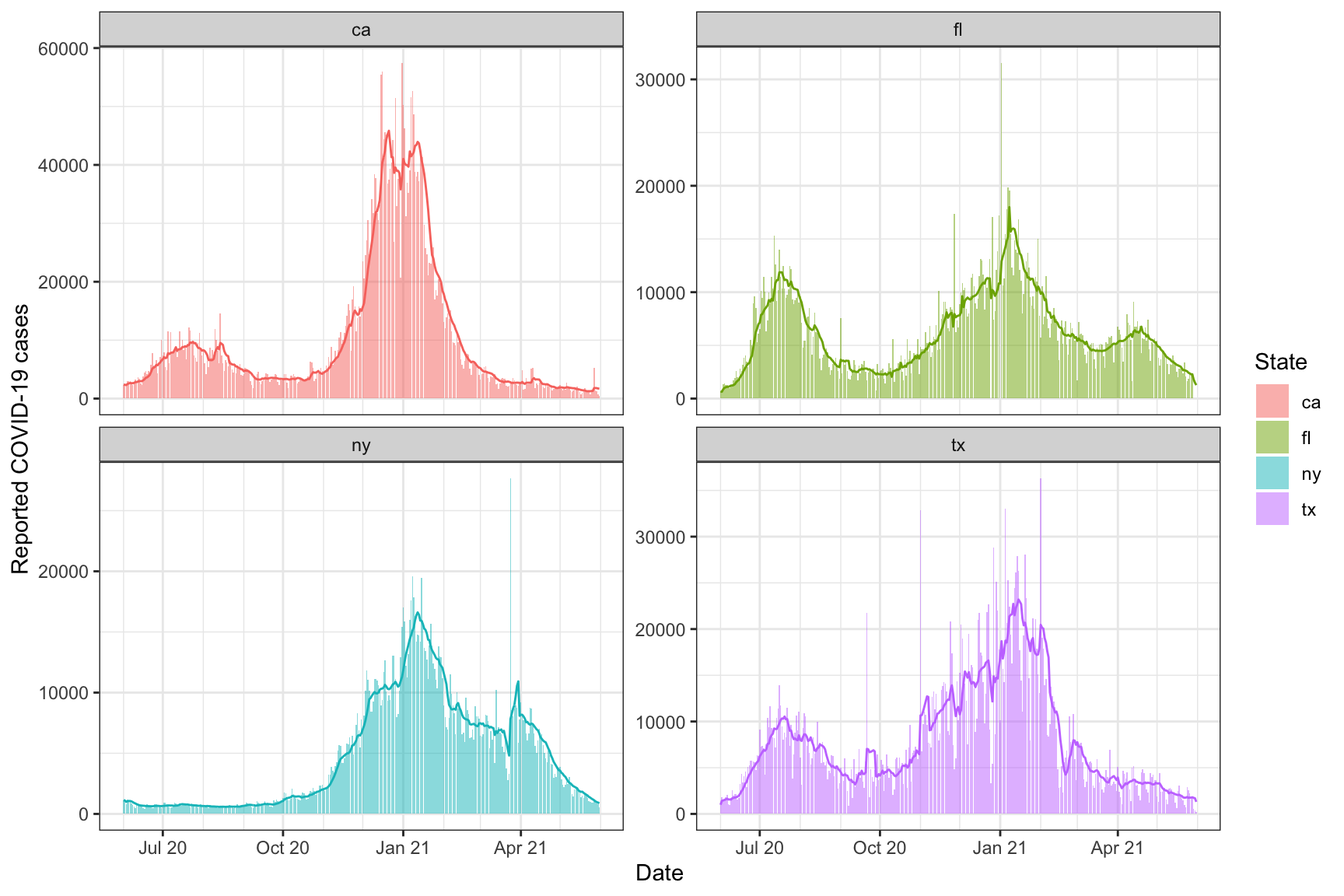
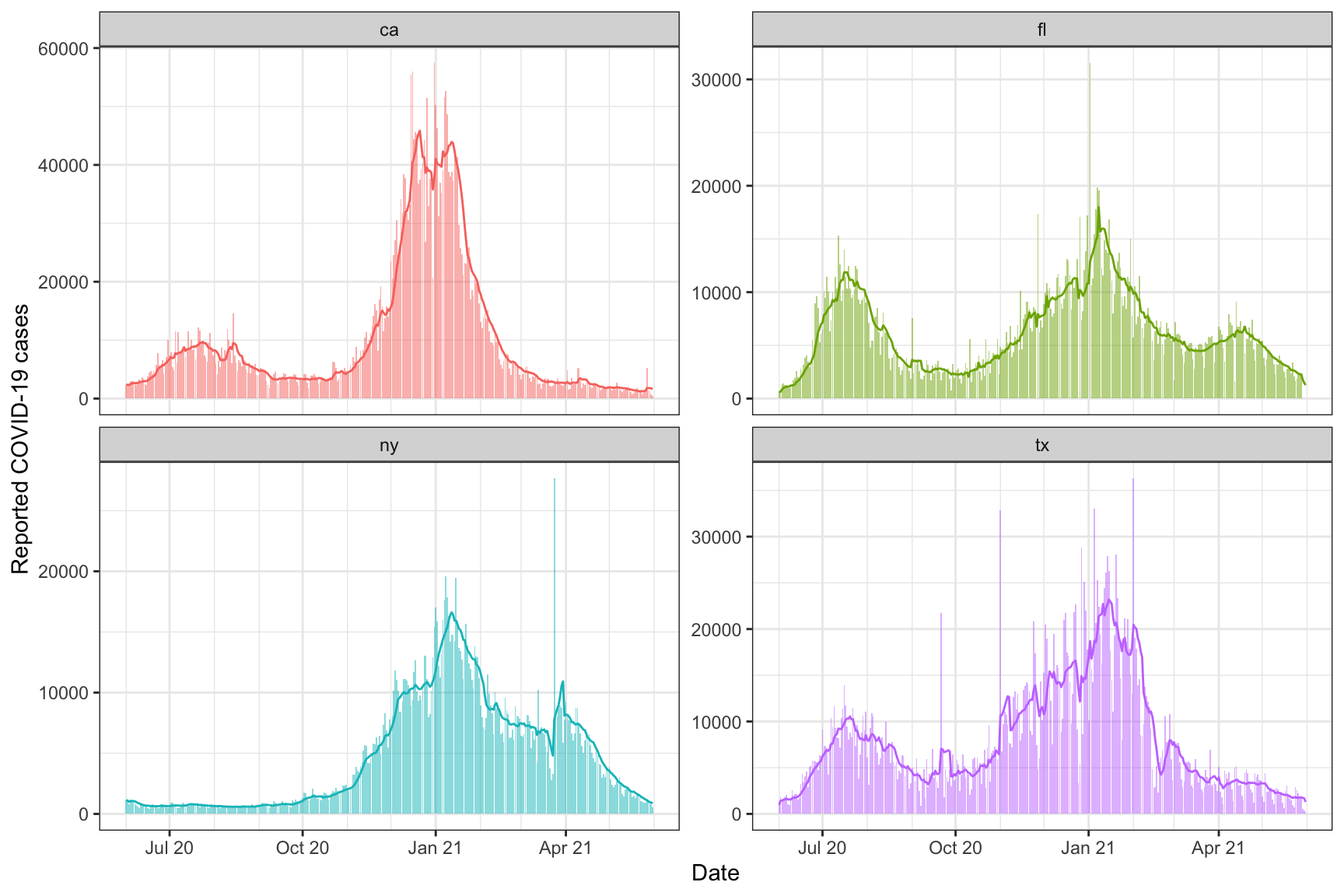
Fix AR model
- Refactor the code so that it outputs data frame in wide format
- Widen bands to seek 95% coverage
- Increase training set size to 100
- Update some of the text and plots

diff --git a/docs/articles/slide.html b/docs/articles/slide.html
@@ -12,7 +12,7 @@
 <link rel="stylesheet" href="https://cdnjs.cloudflare.com/ajax/libs/font-awesome/5.12.1/css/v4-shims.min.css" integrity="sha256-wZjR52fzng1pJHwx4aV2AO3yyTOXrcDW7jBpJtTwVxw=" crossorigin="anonymous">
 <!-- clipboard.js --><script src="https://cdnjs.cloudflare.com/ajax/libs/clipboard.js/2.0.6/clipboard.min.js" integrity="sha256-inc5kl9MA1hkeYUt+EC3BhlIgyp/2jDIyBLS6k3UxPI=" crossorigin="anonymous"></script><!-- headroom.js --><script src="https://cdnjs.cloudflare.com/ajax/libs/headroom/0.11.0/headroom.min.js" integrity="sha256-AsUX4SJE1+yuDu5+mAVzJbuYNPHj/WroHuZ8Ir/CkE0=" crossorigin="anonymous"></script><script src="https://cdnjs.cloudflare.com/ajax/libs/headroom/0.11.0/jQuery.headroom.min.js" integrity="sha256-ZX/yNShbjqsohH1k95liqY9Gd8uOiE1S4vZc+9KQ1K4=" crossorigin="anonymous"></script><!-- pkgdown --><link href="../pkgdown.css" rel="stylesheet">
 <script src="../pkgdown.js"></script><meta property="og:title" content="1. Slide a computation over signal values">
-<meta property="og:description" content="Slide a computation signal values over time.">
+<meta property="og:description" content="Slide a computation over signal values over time.">
 <!-- mathjax --><script src="https://cdnjs.cloudflare.com/ajax/libs/mathjax/2.7.5/MathJax.js" integrity="sha256-nvJJv9wWKEm88qvoQl9ekL2J+k/RWIsaSScxxlsrv8k=" crossorigin="anonymous"></script><script src="https://cdnjs.cloudflare.com/ajax/libs/mathjax/2.7.5/config/TeX-AMS-MML_HTMLorMML.js" integrity="sha256-84DKXVJXs0/F8OTMzX4UR909+jtl4G7SPypPavF+GfA=" crossorigin="anonymous"></script><!--[if lt IE 9]>
 <script src="https://oss.maxcdn.com/html5shiv/3.7.3/html5shiv.min.js"></script>
 <script src="https://oss.maxcdn.com/respond/1.4.2/respond.min.js"></script>
@@ -156,11 +156,11 @@
 <span class="fu"><a href="https://ggplot2.tidyverse.org/reference/theme_get.html">theme_set</a></span>(<span class="fu"><a href="https://ggplot2.tidyverse.org/reference/ggtheme.html">theme_bw</a></span>())
 
 <span class="fu"><a href="https://ggplot2.tidyverse.org/reference/ggplot.html">ggplot</a></span>(<span class="no">x</span>, <span class="fu"><a href="https://ggplot2.tidyverse.org/reference/aes.html">aes</a></span>(<span class="kw">x</span> <span class="kw">=</span> <span class="no">time_value</span>)) +
-  <span class="fu"><a href="https://ggplot2.tidyverse.org/reference/geom_bar.html">geom_col</a></span>(<span class="fu"><a href="https://ggplot2.tidyverse.org/reference/aes.html">aes</a></span>(<span class="kw">y</span> <span class="kw">=</span> <span class="no">value</span>, <span class="kw">fill</span> <span class="kw">=</span> <span class="no">geo_value</span>), <span class="kw">alpha</span> <span class="kw">=</span> <span class="fl">0.5</span>) +
+  <span class="fu"><a href="https://ggplot2.tidyverse.org/reference/geom_bar.html">geom_col</a></span>(<span class="fu"><a href="https://ggplot2.tidyverse.org/reference/aes.html">aes</a></span>(<span class="kw">y</span> <span class="kw">=</span> <span class="no">value</span>, <span class="kw">fill</span> <span class="kw">=</span> <span class="no">geo_value</span>), <span class="kw">alpha</span> <span class="kw">=</span> <span class="fl">0.5</span>, <span class="kw">show.legend</span> <span class="kw">=</span> <span class="fl">FALSE</span>) +
   <span class="fu"><a href="https://ggplot2.tidyverse.org/reference/geom_path.html">geom_line</a></span>(<span class="fu"><a href="https://ggplot2.tidyverse.org/reference/aes.html">aes</a></span>(<span class="kw">y</span> <span class="kw">=</span> <span class="no">`7dav`</span>, <span class="kw">col</span> <span class="kw">=</span> <span class="no">geo_value</span>), <span class="kw">show.legend</span> <span class="kw">=</span> <span class="fl">FALSE</span>) +
   <span class="fu"><a href="https://ggplot2.tidyverse.org/reference/facet_wrap.html">facet_wrap</a></span>(~ <span class="no">geo_value</span>, <span class="kw">scales</span> <span class="kw">=</span> <span class="st">"free_y"</span>) +
   <span class="fu"><a href="https://ggplot2.tidyverse.org/reference/scale_date.html">scale_x_date</a></span>(<span class="kw">minor_breaks</span> <span class="kw">=</span> <span class="st">"month"</span>, <span class="kw">date_labels</span> <span class="kw">=</span> <span class="st">"%b %y"</span>) +
-  <span class="fu"><a href="https://ggplot2.tidyverse.org/reference/labs.html">labs</a></span>(<span class="kw">x</span> <span class="kw">=</span> <span class="st">"Date"</span>, <span class="kw">y</span> <span class="kw">=</span> <span class="st">"Reported COVID-19 cases"</span>, <span class="kw">fill</span> <span class="kw">=</span> <span class="st">"State"</span>)</pre></body></html></div>
+  <span class="fu"><a href="https://ggplot2.tidyverse.org/reference/labs.html">labs</a></span>(<span class="kw">x</span> <span class="kw">=</span> <span class="st">"Date"</span>, <span class="kw">y</span> <span class="kw">=</span> <span class="st">"Reported COVID-19 cases"</span>)</pre></body></html></div>
 <p><img src="slide_files/figure-html/unnamed-chunk-4-1.png" width="864"></p>
 </div>
 <div id="slide-with-a-function" class="section level2">
@@ -187,13 +187,13 @@
 <div id="building-and-running-a-local-forecaster" class="section level2">
 <h2 class="hasAnchor">
 <a href="#building-and-running-a-local-forecaster" class="anchor"></a>Building and running a local forecaster</h2>
-<p>As a more complicated example, we create a forecaster based on a local (in time) autoregression or AR model. AR models can be fit in numerous ways (using base R functions and various packages), but here we define it “by hand” both because it provides a more advanced example of sliding a function over an <code>epi_signal</code> object, and because it allows us to be a bit more flexible in defining a <em>probabilistic</em> forecaster: one that outputs not just a point prediction, but a notion of uncertainty around this. In particular, our forecaster will output a point prediction along with a 80% uncertainty band, represented by a predictive quantiles at the 10% and 90% levels (lower and upper endpoints of the uncertainty band).</p>
-<p>The function defined below, <code>local_ar()</code>, is our local AR forecaster. The <code>lags</code> argument indicates which lags to use in the model, and <code>ahead</code> indicates how far ahead in the future to make forecasts (both are encoded in terms of the units of the <code>time_value</code> column; so, days, in the working <code>epi_signal</code> being considered in this vignette). The implementation here uses <code><a href="https://dplyr.tidyverse.org/reference/lead-lag.html">dplyr::lag()</a></code>, <code><a href="https://dplyr.tidyverse.org/reference/lead-lag.html">dplyr::lead()</a></code>, and <code>purrr:map()</code> to fit the AR model with tidy code.</p>
-<div class="sourceCode" id="cb9"><html><body><pre class="r"><span class="no">local_ar</span> <span class="kw">&lt;-</span> <span class="kw">function</span>(<span class="no">v</span>, <span class="no">lags</span> <span class="kw">=</span> <span class="fu"><a href="https://rdrr.io/r/base/c.html">c</a></span>(<span class="fl">0</span>, <span class="fl">7</span>, <span class="fl">14</span>), <span class="no">ahead</span> <span class="kw">=</span> <span class="fl">7</span>, <span class="no">min_train_window</span> <span class="kw">=</span> <span class="fl">10</span>,
-                     <span class="no">quantile_levels</span> <span class="kw">=</span> <span class="fu"><a href="https://rdrr.io/r/base/c.html">c</a></span>(<span class="fl">0.1</span>, <span class="fl">0.9</span>), <span class="no">symmetrize</span> <span class="kw">=</span> <span class="fl">TRUE</span>) {
+<p>As a more complicated example, we create a forecaster based on a local (in time) autoregression or AR model. AR models can be fit in numerous ways (using base R functions and various packages), but here we define it “by hand” both because it provides a more advanced example of sliding a function over an <code>epi_signal</code> object, and because it allows us to be a bit more flexible in defining a <em>probabilistic</em> forecaster: one that outputs not just a point prediction, but a notion of uncertainty around this. In particular, our forecaster will output a point prediction along with an 90% uncertainty band, represented by a predictive quantiles at the 5% and 95% levels (lower and upper endpoints of the uncertainty band).</p>
+<p>The function defined below, <code>prob_ar()</code>, is our probabilistic AR forecaster. The <code>lags</code>argument indicates which lags to use in the model, and <code>ahead</code> indicates how far ahead in the future to make forecasts (both are encoded in terms of the units of the <code>time_value</code> column; so, days, in the working <code>epi_signal</code> being considered in this vignette).</p>
+<div class="sourceCode" id="cb9"><html><body><pre class="r"><span class="no">prob_ar</span> <span class="kw">&lt;-</span> <span class="kw">function</span>(<span class="no">v</span>, <span class="no">lags</span> <span class="kw">=</span> <span class="fu"><a href="https://rdrr.io/r/base/c.html">c</a></span>(<span class="fl">0</span>, <span class="fl">7</span>, <span class="fl">14</span>), <span class="no">ahead</span> <span class="kw">=</span> <span class="fl">7</span>, <span class="no">min_train_window</span> <span class="kw">=</span> <span class="fl">20</span>,
+                    <span class="no">lower_level</span> <span class="kw">=</span> <span class="fl">0.05</span>, <span class="no">upper_level</span> <span class="kw">=</span> <span class="fl">0.95</span>, <span class="no">symmetrize</span> <span class="kw">=</span> <span class="fl">TRUE</span>) {
   <span class="co"># Return NA if insufficient training data</span>
   <span class="kw">if</span> (<span class="fu"><a href="https://rdrr.io/r/base/length.html">length</a></span>(<span class="no">v</span>) <span class="kw">&lt;</span> <span class="no">min_train_window</span> + <span class="fu"><a href="https://rdrr.io/r/base/Extremes.html">max</a></span>(<span class="no">lags</span>) + <span class="no">ahead</span>) {
-    <span class="fu"><a href="https://rdrr.io/r/base/function.html">return</a></span>(<span class="fu"><a href="https://rdrr.io/r/base/data.frame.html">data.frame</a></span>(<span class="kw">value</span> <span class="kw">=</span> <span class="fl">NA</span>, <span class="kw">level</span> <span class="kw">=</span> <span class="fu"><a href="https://rdrr.io/r/base/c.html">c</a></span>(<span class="fl">NA</span>, <span class="no">quantile_levels</span>)))
+    <span class="fu"><a href="https://rdrr.io/r/base/function.html">return</a></span>(<span class="fu"><a href="https://rdrr.io/r/base/data.frame.html">data.frame</a></span>(<span class="kw">point</span> <span class="kw">=</span> <span class="fl">NA</span>, <span class="kw">lower</span> <span class="kw">=</span> <span class="fl">NA</span>, <span class="kw">upper</span> <span class="kw">=</span> <span class="fl">NA</span>))
   }
 
   <span class="co"># Perform other simple checks</span>
@@ -211,18 +211,17 @@
   <span class="co"># Compute a band and return</span>
   <span class="no">r</span> <span class="kw">&lt;-</span> <span class="fu"><a href="https://rdrr.io/r/stats/residuals.html">residuals</a></span>(<span class="no">fit</span>)
   <span class="no">s</span> <span class="kw">&lt;-</span> <span class="fu"><a href="https://rdrr.io/r/base/ifelse.html">ifelse</a></span>(<span class="no">symmetrize</span>, -<span class="fl">1</span>, <span class="fl">NA</span>) <span class="co"># Should the residuals be symmetrized?</span>
-  <span class="no">q</span> <span class="kw">&lt;-</span> <span class="fu"><a href="https://rdrr.io/r/base/c.html">c</a></span>(<span class="fl">0</span>, <span class="fu"><a href="https://rdrr.io/r/stats/quantile.html">quantile</a></span>(<span class="fu"><a href="https://rdrr.io/r/base/c.html">c</a></span>(<span class="no">r</span>, <span class="no">s</span> * <span class="no">r</span>), <span class="kw">probs</span> <span class="kw">=</span> <span class="no">quantile_levels</span>, <span class="kw">na.rm</span> <span class="kw">=</span> <span class="fl">TRUE</span>))
-  <span class="fu"><a href="https://rdrr.io/r/base/function.html">return</a></span>(<span class="fu"><a href="https://rdrr.io/r/base/data.frame.html">data.frame</a></span>(<span class="kw">value</span> <span class="kw">=</span> <span class="no">q</span> + <span class="no">point</span>, <span class="kw">level</span> <span class="kw">=</span> <span class="fu"><a href="https://rdrr.io/r/base/c.html">c</a></span>(<span class="fl">NA</span>, <span class="no">quantile_levels</span>)))
+  <span class="no">q</span> <span class="kw">&lt;-</span> <span class="fu"><a href="https://rdrr.io/r/stats/quantile.html">quantile</a></span>(<span class="fu"><a href="https://rdrr.io/r/base/c.html">c</a></span>(<span class="no">r</span>, <span class="no">s</span> * <span class="no">r</span>), <span class="kw">probs</span> <span class="kw">=</span> <span class="fu"><a href="https://rdrr.io/r/base/c.html">c</a></span>(<span class="no">lower_level</span>, <span class="no">upper_level</span>), <span class="kw">na.rm</span> <span class="kw">=</span> <span class="fl">TRUE</span>)
+  <span class="fu"><a href="https://rdrr.io/r/base/function.html">return</a></span>(<span class="fu"><a href="https://rdrr.io/r/base/data.frame.html">data.frame</a></span>(<span class="kw">point</span> <span class="kw">=</span> <span class="no">point</span>, <span class="kw">lower</span> <span class="kw">=</span> <span class="no">point</span> + <span class="no">q</span>[<span class="fl">1</span>], <span class="kw">upper</span> <span class="kw">=</span> <span class="no">point</span> + <span class="no">q</span>[<span class="fl">2</span>]))
 }</pre></body></html></div>
-<p>Now we go ahead and slide this local forecaster over the working <code>epi_signal</code> of COVID-19 cases. Note that we actually model the <code>7dav</code> column, to operate on the scale of smoothed COVID-19 cases. (This is clearly equivalent, up to a constant, to modeling weekly sums of COVID-19 cases.)</p>
-<div class="sourceCode" id="cb10"><html><body><pre class="r"><span class="no">forecasts</span> <span class="kw">&lt;-</span> <span class="no">x</span> <span class="kw">%&gt;%</span>
-  <span class="fu"><a href="../reference/slide_by_geo.html">slide_by_geo</a></span>(<span class="kw">slide_fun</span> <span class="kw">=</span> ~ <span class="fu">local_ar</span>(<span class="no">.x</span>$<span class="no">`7dav`</span>), <span class="kw">n</span> <span class="kw">=</span> <span class="fl">63</span>,
-               <span class="kw">col_type</span> <span class="kw">=</span> <span class="st">"list"</span>, <span class="kw">col_name</span> <span class="kw">=</span> <span class="st">"value"</span>) <span class="kw">%&gt;%</span>
-  <span class="fu"><a href="https://dplyr.tidyverse.org/reference/rename.html">rename</a></span>(<span class="kw">forecast_date</span> <span class="kw">=</span> <span class="no">time_value</span>) <span class="kw">%&gt;%</span>
-  <span class="fu"><a href="https://dplyr.tidyverse.org/reference/mutate.html">mutate</a></span>(<span class="kw">target_date</span> <span class="kw">=</span> <span class="no">forecast_date</span> + <span class="fl">7</span>) <span class="kw">%&gt;%</span>
-  <span class="fu"><a href="https://dplyr.tidyverse.org/reference/select.html">select</a></span>(-<span class="no">issue</span>, -<span class="no">`7dav`</span>)
+<p>Now we go ahead and slide this AR forecaster over the working <code>epi_signal</code> of COVID-19 cases. Note that we actually model the <code>7dav</code> column, to operate on the scale of smoothed COVID-19 cases. (This is clearly equivalent, up to a constant, to modeling weekly sums of COVID-19 cases.)</p>
+<div class="sourceCode" id="cb10"><html><body><pre class="r"><span class="no">z</span> <span class="kw">&lt;-</span> <span class="no">x</span> <span class="kw">%&gt;%</span>
+  <span class="fu"><a href="../reference/slide_by_geo.html">slide_by_geo</a></span>(<span class="kw">slide_fun</span> <span class="kw">=</span> ~ <span class="fu">prob_ar</span>(<span class="no">.x</span>$<span class="no">`7dav`</span>), <span class="kw">n</span> <span class="kw">=</span> <span class="fl">100</span>,
+               <span class="kw">col_type</span> <span class="kw">=</span> <span class="st">"list"</span>, <span class="kw">col_name</span> <span class="kw">=</span> <span class="st">"forecast"</span>) <span class="kw">%&gt;%</span>
+  <span class="fu"><a href="https://dplyr.tidyverse.org/reference/mutate.html">mutate</a></span>(<span class="kw">target_date</span> <span class="kw">=</span> <span class="no">time_value</span> + <span class="fl">7</span>) <span class="kw">%&gt;%</span>
+  <span class="fu"><a href="https://dplyr.tidyverse.org/reference/select.html">select</a></span>(-<span class="no">value</span>, -<span class="no">slide_value</span>, -<span class="no">issue</span>)
 
-<span class="fu"><a href="https://rdrr.io/r/utils/head.html">tail</a></span>(<span class="no">forecasts</span>, <span class="fl">3</span>)</pre></body></html></div>
+<span class="fu"><a href="https://rdrr.io/r/utils/head.html">tail</a></span>(<span class="no">z</span>, <span class="fl">3</span>)</pre></body></html></div>
 <pre><code>## An `epi_signal` data frame with 3 rows and 5 columns.
 ## 
 ## name      : covid19_cases
@@ -230,74 +229,63 @@
 ## time_type : day
 ## 
 ## # A tibble: 3 × 5
-##   value        geo_value forecast_date slide_value target_date
-##   &lt;list&gt;       &lt;chr&gt;     &lt;date&gt;              &lt;dbl&gt; &lt;date&gt;     
-## 1 &lt;df [3 × 2]&gt; tx        2021-05-29          1740. 2021-06-05 
-## 2 &lt;df [3 × 2]&gt; tx        2021-05-30          1692. 2021-06-06 
-## 3 &lt;df [3 × 2]&gt; tx        2021-05-31          1306. 2021-06-07</code></pre>
-<p>We cab see that the <code>value</code> column is a list column (as we specified in the call to <code>slide_to_geo()</code>, which is needed since <code>local_ar()</code> returns a data frame), and we can use <code><a href="https://tidyr.tidyverse.org/reference/nest.html">tidyr::unnest()</a></code> to unnest it.</p>
-<div class="sourceCode" id="cb12"><html><body><pre class="r"><span class="no">forecasts</span> <span class="kw">&lt;-</span> <span class="kw pkg">tidyr</span><span class="kw ns">::</span><span class="fu"><a href="https://tidyr.tidyverse.org/reference/nest.html">unnest</a></span>(<span class="no">forecasts</span>, <span class="no">value</span>)
-<span class="fu"><a href="https://rdrr.io/r/utils/head.html">tail</a></span>(<span class="no">forecasts</span>, <span class="fl">10</span>)</pre></body></html></div>
-<pre><code>## # A tibble: 10 × 6
-##    value level geo_value forecast_date slide_value target_date
-##    &lt;dbl&gt; &lt;dbl&gt; &lt;chr&gt;     &lt;date&gt;              &lt;dbl&gt; &lt;date&gt;     
-##  1 1981.   0.9 tx        2021-05-28          1802  2021-06-04 
-##  2 1721.  NA   tx        2021-05-29          1740. 2021-06-05 
-##  3 1447.   0.1 tx        2021-05-29          1740. 2021-06-05 
-##  4 1995.   0.9 tx        2021-05-29          1740. 2021-06-05 
-##  5 1694.  NA   tx        2021-05-30          1692. 2021-06-06 
-##  6 1415.   0.1 tx        2021-05-30          1692. 2021-06-06 
-##  7 1974.   0.9 tx        2021-05-30          1692. 2021-06-06 
-##  8 1181.  NA   tx        2021-05-31          1306. 2021-06-07 
-##  9  876.   0.1 tx        2021-05-31          1306. 2021-06-07 
-## 10 1487.   0.9 tx        2021-05-31          1306. 2021-06-07</code></pre>
-<p>The <code>level</code> column specifies the quantile level corresponding to the <code>value</code> column. Here <code>NA</code> means that the associated <code>value</code> entry is the point forecast and <code>0.1</code> and <code>0.9</code> mean that the associated <code>value</code> entries are the estimated quantiles at the 0.1 and 0.9 probability levels.</p>
-<p>To finish off, we plot the forecasts at various times (spaced out by a month) over the last year, at multiple horizons (7, 14, and 28 days ahead). To do so, we encapsulate the process of generating forecasts into a simple function, so that we can call it a few times.</p>
+##   geo_value time_value `7dav` forecast     target_date
+##   &lt;chr&gt;     &lt;date&gt;      &lt;dbl&gt; &lt;list&gt;       &lt;date&gt;     
+## 1 tx        2021-05-29  1740. &lt;df [1 × 3]&gt; 2021-06-05 
+## 2 tx        2021-05-30  1692. &lt;df [1 × 3]&gt; 2021-06-06 
+## 3 tx        2021-05-31  1306. &lt;df [1 × 3]&gt; 2021-06-07</code></pre>
+<p>We can see that the <code>forecast</code> column is a list column (as specified in the call to <code>slide_to_geo()</code>, which was needed since <code>prob_ar()</code> returns a data frame), and we can use <code><a href="https://tidyr.tidyverse.org/reference/nest.html">tidyr::unnest()</a></code> to unnest it.</p>
+<div class="sourceCode" id="cb12"><html><body><pre class="r"><span class="no">z</span> <span class="kw">&lt;-</span> <span class="kw pkg">tidyr</span><span class="kw ns">::</span><span class="fu"><a href="https://tidyr.tidyverse.org/reference/nest.html">unnest</a></span>(<span class="no">z</span>, <span class="no">forecast</span>)
+<span class="fu"><a href="https://rdrr.io/r/utils/head.html">tail</a></span>(<span class="no">z</span>, <span class="fl">10</span>)</pre></body></html></div>
+<pre><code>## # A tibble: 10 × 7
+##    geo_value time_value `7dav` point lower upper target_date
+##    &lt;chr&gt;     &lt;date&gt;      &lt;dbl&gt; &lt;dbl&gt; &lt;dbl&gt; &lt;dbl&gt; &lt;date&gt;     
+##  1 tx        2021-05-22  1756. 2078. 1448. 2709. 2021-05-29 
+##  2 tx        2021-05-23  1763. 2067. 1437. 2696. 2021-05-30 
+##  3 tx        2021-05-24  1824. 2069. 1434. 2703. 2021-05-31 
+##  4 tx        2021-05-25  1743  2056. 1473. 2638. 2021-06-01 
+##  5 tx        2021-05-26  1767. 2048. 1480. 2616. 2021-06-02 
+##  6 tx        2021-05-27  1761. 2020. 1449. 2591. 2021-06-03 
+##  7 tx        2021-05-28  1802  1980. 1389. 2571. 2021-06-04 
+##  8 tx        2021-05-29  1740. 1888. 1272. 2505. 2021-06-05 
+##  9 tx        2021-05-30  1692. 1819. 1171. 2466. 2021-06-06 
+## 10 tx        2021-05-31  1306. 1525.  878. 2172. 2021-06-07</code></pre>
+<p>Now we get three columns <code>point</code>, <code>lower</code>, and <code>upper</code> corresponding to the point forecast, and the lower and upper endpoints of the 95% prediction band, respectively.</p>
+<p>To finish off, we plot the forecasts at some times (spaced out by a few months) over the last year, at multiple horizons (7, 14, and 28 days ahead). To do so, we encapsulate the process of generating forecasts into a simple function, so that we can call it a few times.</p>
 <div class="sourceCode" id="cb14"><html><body><pre class="r"><span class="no">k_week_ahead</span> <span class="kw">&lt;-</span> <span class="kw">function</span>(<span class="no">x</span>, <span class="no">ahead</span> <span class="kw">=</span> <span class="fl">7</span>) {
-  <span class="co"># Ensure each forecast task has 42 effective days of training data</span>
-  <span class="no">arg_list</span> <span class="kw">=</span> <span class="fu"><a href="https://rdrr.io/r/base/list.html">as.list</a></span>(<span class="fu"><a href="https://rdrr.io/r/base/args.html">args</a></span>(<span class="no">local_ar</span>))
-  <span class="no">n</span> <span class="kw">=</span> <span class="fl">42</span> + <span class="fu"><a href="https://rdrr.io/r/base/Extremes.html">max</a></span>(<span class="fu"><a href="https://rdrr.io/r/base/eval.html">eval</a></span>(<span class="no">arg_list</span>$<span class="no">lags</span>)) + <span class="no">ahead</span>
-  <span class="fu"><a href="https://rdrr.io/r/base/function.html">return</a></span>(<span class="no">x</span> <span class="kw">%&gt;%</span>
-           <span class="fu"><a href="../reference/slide_by_geo.html">slide_by_geo</a></span>(<span class="kw">slide_fun</span> <span class="kw">=</span> ~ <span class="fu">local_ar</span>(<span class="no">.x</span>$<span class="no">`7dav`</span>, <span class="kw">ahead</span> <span class="kw">=</span> <span class="no">ahead</span>),
-                        <span class="kw">n</span> <span class="kw">=</span> <span class="no">n</span>, <span class="kw">col_type</span> <span class="kw">=</span> <span class="st">"list"</span>, <span class="kw">col_name</span> <span class="kw">=</span> <span class="st">"value"</span>) <span class="kw">%&gt;%</span>
-           <span class="kw pkg">dplyr</span><span class="kw ns">::</span><span class="fu"><a href="https://dplyr.tidyverse.org/reference/rename.html">rename</a></span>(<span class="kw">forecast_date</span> <span class="kw">=</span> <span class="no">time_value</span>) <span class="kw">%&gt;%</span>
-           <span class="fu"><a href="https://dplyr.tidyverse.org/reference/mutate.html">mutate</a></span>(<span class="kw">target_date</span> <span class="kw">=</span> <span class="no">forecast_date</span> + <span class="no">ahead</span>) <span class="kw">%&gt;%</span>
-           <span class="fu"><a href="https://dplyr.tidyverse.org/reference/select.html">select</a></span>(-<span class="no">issue</span>, -<span class="no">`7dav`</span>) <span class="kw">%&gt;%</span>
-           <span class="kw pkg">tidyr</span><span class="kw ns">::</span><span class="fu"><a href="https://tidyr.tidyverse.org/reference/nest.html">unnest</a></span>(<span class="no">value</span>))
+  <span class="no">x</span> <span class="kw">%&gt;%</span>
+    <span class="fu"><a href="../reference/slide_by_geo.html">slide_by_geo</a></span>(<span class="kw">slide_fun</span> <span class="kw">=</span> ~ <span class="fu">prob_ar</span>(<span class="no">.x</span>$<span class="no">`7dav`</span>, <span class="kw">ahead</span> <span class="kw">=</span> <span class="no">ahead</span>),
+                 <span class="kw">n</span> <span class="kw">=</span> <span class="fl">100</span>, <span class="kw">col_type</span> <span class="kw">=</span> <span class="st">"list"</span>, <span class="kw">col_name</span> <span class="kw">=</span> <span class="st">"forecast"</span>) <span class="kw">%&gt;%</span>
+    <span class="fu"><a href="https://dplyr.tidyverse.org/reference/mutate.html">mutate</a></span>(<span class="kw">target_date</span> <span class="kw">=</span> <span class="no">time_value</span> + <span class="no">ahead</span>) <span class="kw">%&gt;%</span>
+    <span class="fu"><a href="https://dplyr.tidyverse.org/reference/select.html">select</a></span>(-<span class="no">value</span>, -<span class="no">slide_value</span>, -<span class="no">issue</span>) <span class="kw">%&gt;%</span>
+    <span class="kw pkg">tidyr</span><span class="kw ns">::</span><span class="fu"><a href="https://tidyr.tidyverse.org/reference/nest.html">unnest</a></span>(<span class="no">forecast</span>)
 }
 
 <span class="co"># First generate the forecasts, and bind them together</span>
-<span class="no">forecasts</span> <span class="kw">&lt;-</span> <span class="fu"><a href="https://dplyr.tidyverse.org/reference/bind.html">bind_rows</a></span>(<span class="fu">k_week_ahead</span>(<span class="no">x</span>, <span class="kw">ahead</span> <span class="kw">=</span> <span class="fl">7</span>),
-                       <span class="fu">k_week_ahead</span>(<span class="no">x</span>, <span class="kw">ahead</span> <span class="kw">=</span> <span class="fl">14</span>),
-                       <span class="fu">k_week_ahead</span>(<span class="no">x</span>, <span class="kw">ahead</span> <span class="kw">=</span> <span class="fl">28</span>))
+<span class="no">z</span> <span class="kw">&lt;-</span> <span class="fu"><a href="https://dplyr.tidyverse.org/reference/bind.html">bind_rows</a></span>(<span class="fu">k_week_ahead</span>(<span class="no">x</span>, <span class="kw">ahead</span> <span class="kw">=</span> <span class="fl">7</span>),
+               <span class="fu">k_week_ahead</span>(<span class="no">x</span>, <span class="kw">ahead</span> <span class="kw">=</span> <span class="fl">14</span>),
+               <span class="fu">k_week_ahead</span>(<span class="no">x</span>, <span class="kw">ahead</span> <span class="kw">=</span> <span class="fl">28</span>))
 
 <span class="co"># Now plot some of them, spaced apart by 2 months</span>
-<span class="no">dates</span> <span class="kw">&lt;-</span> <span class="fu"><a href="https://rdrr.io/r/base/seq.html">seq</a></span>(<span class="fu"><a href="https://rdrr.io/r/base/as.Date.html">as.Date</a></span>(<span class="st">"2020-08-01"</span>), <span class="fu"><a href="https://rdrr.io/r/base/as.Date.html">as.Date</a></span>(<span class="st">"2021-06-01"</span>), <span class="kw">by</span> <span class="kw">=</span> <span class="st">"2 months"</span>)
+<span class="no">z_to_show</span> <span class="kw">&lt;-</span> <span class="no">z</span> <span class="kw">%&gt;%</span>
+  <span class="fu"><a href="https://dplyr.tidyverse.org/reference/filter.html">filter</a></span>(<span class="no">time_value</span> <span class="kw">%in%</span>
+           <span class="fu"><a href="https://rdrr.io/r/base/seq.html">seq</a></span>(<span class="fu"><a href="https://rdrr.io/r/base/as.Date.html">as.Date</a></span>(<span class="st">"2020-08-01"</span>), <span class="fu"><a href="https://rdrr.io/r/base/as.Date.html">as.Date</a></span>(<span class="st">"2021-06-01"</span>), <span class="kw">by</span> <span class="kw">=</span> <span class="st">"2 months"</span>))
 
-<span class="no">bands</span> <span class="kw">&lt;-</span> <span class="no">forecasts</span> <span class="kw">%&gt;%</span>
-  <span class="fu"><a href="https://dplyr.tidyverse.org/reference/filter.html">filter</a></span>(<span class="no">forecast_date</span> <span class="kw">%in%</span> <span class="no">dates</span>) <span class="kw">%&gt;%</span>
-  <span class="fu"><a href="https://dplyr.tidyverse.org/reference/group_by.html">group_by</a></span>(<span class="no">forecast_date</span>, <span class="no">target_date</span>, <span class="no">geo_value</span>) <span class="kw">%&gt;%</span>
-  <span class="fu"><a href="https://dplyr.tidyverse.org/reference/mutate.html">mutate</a></span>(<span class="kw">level</span> <span class="kw">=</span> <span class="fu"><a href="https://dplyr.tidyverse.org/reference/case_when.html">case_when</a></span>(
-    <span class="fu"><a href="https://rdrr.io/r/base/NA.html">is.na</a></span>(<span class="no">level</span>) ~ <span class="st">"point"</span>,
-    <span class="no">level</span> <span class="kw">&lt;</span> <span class="fl">.5</span> ~ <span class="st">"lo"</span>,
-    <span class="fl">TRUE</span> ~ <span class="st">"hi"</span>)) <span class="kw">%&gt;%</span>
-  <span class="kw pkg">tidyr</span><span class="kw ns">::</span><span class="fu"><a href="https://tidyr.tidyverse.org/reference/pivot_wider.html">pivot_wider</a></span>(<span class="kw">names_from</span> <span class="kw">=</span> <span class="no">level</span>, <span class="kw">values_from</span> <span class="kw">=</span> <span class="no">value</span>)
-
-<span class="no">p</span> <span class="kw">&lt;-</span> <span class="fu"><a href="https://ggplot2.tidyverse.org/reference/ggplot.html">ggplot</a></span>(<span class="no">bands</span>, <span class="fu"><a href="https://ggplot2.tidyverse.org/reference/aes.html">aes</a></span>(<span class="kw">x</span> <span class="kw">=</span> <span class="no">target_date</span>, <span class="kw">y</span> <span class="kw">=</span> <span class="no">point</span>, <span class="kw">group</span> <span class="kw">=</span> <span class="no">forecast_date</span>)) +
-  <span class="fu"><a href="https://ggplot2.tidyverse.org/reference/geom_ribbon.html">geom_ribbon</a></span>(<span class="fu"><a href="https://ggplot2.tidyverse.org/reference/aes.html">aes</a></span>(<span class="kw">ymin</span> <span class="kw">=</span> <span class="no">lo</span>, <span class="kw">ymax</span> <span class="kw">=</span> <span class="no">hi</span>), <span class="kw">fill</span> <span class="kw">=</span> <span class="st">"orchid"</span>, <span class="kw">alpha</span> <span class="kw">=</span> <span class="fl">0.5</span>) +
+<span class="no">p</span> <span class="kw">&lt;-</span> <span class="fu"><a href="https://ggplot2.tidyverse.org/reference/ggplot.html">ggplot</a></span>(<span class="no">z_to_show</span>, <span class="fu"><a href="https://ggplot2.tidyverse.org/reference/aes.html">aes</a></span>(<span class="kw">x</span> <span class="kw">=</span> <span class="no">target_date</span>, <span class="kw">y</span> <span class="kw">=</span> <span class="no">point</span>, <span class="kw">group</span> <span class="kw">=</span> <span class="no">time_value</span>)) +
+  <span class="fu"><a href="https://ggplot2.tidyverse.org/reference/geom_ribbon.html">geom_ribbon</a></span>(<span class="fu"><a href="https://ggplot2.tidyverse.org/reference/aes.html">aes</a></span>(<span class="kw">ymin</span> <span class="kw">=</span> <span class="no">lower</span>, <span class="kw">ymax</span> <span class="kw">=</span> <span class="no">upper</span>), <span class="kw">fill</span> <span class="kw">=</span> <span class="st">"orchid"</span>, <span class="kw">alpha</span> <span class="kw">=</span> <span class="fl">0.5</span>) +
   <span class="fu"><a href="https://ggplot2.tidyverse.org/reference/geom_path.html">geom_line</a></span>() + <span class="fu"><a href="https://ggplot2.tidyverse.org/reference/geom_point.html">geom_point</a></span>(<span class="kw">size</span> <span class="kw">=</span> <span class="fl">0.5</span>) +
-  <span class="fu"><a href="https://ggplot2.tidyverse.org/reference/geom_abline.html">geom_vline</a></span>(<span class="fu"><a href="https://ggplot2.tidyverse.org/reference/aes.html">aes</a></span>(<span class="kw">xintercept</span> <span class="kw">=</span> <span class="no">forecast_date</span>), <span class="kw">linetype</span> <span class="kw">=</span> <span class="fl">2</span>, <span class="kw">alpha</span> <span class="kw">=</span> <span class="fl">0.5</span>) +
+  <span class="fu"><a href="https://ggplot2.tidyverse.org/reference/geom_abline.html">geom_vline</a></span>(<span class="fu"><a href="https://ggplot2.tidyverse.org/reference/aes.html">aes</a></span>(<span class="kw">xintercept</span> <span class="kw">=</span> <span class="no">time_value</span>), <span class="kw">linetype</span> <span class="kw">=</span> <span class="fl">2</span>, <span class="kw">alpha</span> <span class="kw">=</span> <span class="fl">0.5</span>) +
   <span class="fu"><a href="https://ggplot2.tidyverse.org/reference/facet_wrap.html">facet_wrap</a></span>(<span class="fu"><a href="https://ggplot2.tidyverse.org/reference/vars.html">vars</a></span>(<span class="no">geo_value</span>), <span class="kw">scales</span> <span class="kw">=</span> <span class="st">"free_y"</span>) +
   <span class="fu"><a href="https://ggplot2.tidyverse.org/reference/scale_date.html">scale_x_date</a></span>(<span class="kw">minor_breaks</span> <span class="kw">=</span> <span class="st">"month"</span>, <span class="kw">date_labels</span> <span class="kw">=</span> <span class="st">"%b %y"</span>) +
   <span class="fu"><a href="https://ggplot2.tidyverse.org/reference/labs.html">labs</a></span>(<span class="kw">x</span> <span class="kw">=</span> <span class="st">"Date"</span>, <span class="kw">y</span> <span class="kw">=</span> <span class="st">"Reported COVID-19 cases"</span>)
 
 <span class="kw pkg">gginnards</span><span class="kw ns">::</span><span class="fu"><a href="https://rdrr.io/pkg/gginnards/man/delete_layers.html">append_layers</a></span>(
-  <span class="no">p</span>, <span class="fu"><a href="https://ggplot2.tidyverse.org/reference/geom_path.html">geom_line</a></span>(<span class="kw">data</span> <span class="kw">=</span> <span class="no">x</span>, <span class="fu"><a href="https://ggplot2.tidyverse.org/reference/aes.html">aes</a></span>(<span class="kw">x</span> <span class="kw">=</span> <span class="no">time_value</span>, <span class="kw">y</span> <span class="kw">=</span> <span class="no">`7dav`</span>),
+  <span class="no">p</span>, <span class="fu"><a href="https://ggplot2.tidyverse.org/reference/geom_path.html">geom_line</a></span>(<span class="kw">data</span> <span class="kw">=</span> <span class="no">z</span>, <span class="fu"><a href="https://ggplot2.tidyverse.org/reference/aes.html">aes</a></span>(<span class="kw">x</span> <span class="kw">=</span> <span class="no">time_value</span>, <span class="kw">y</span> <span class="kw">=</span> <span class="no">`7dav`</span>),
                <span class="kw">inherit.aes</span> <span class="kw">=</span> <span class="fl">FALSE</span>, <span class="kw">color</span> <span class="kw">=</span> <span class="st">"gray50"</span>), <span class="kw">pos</span> <span class="kw">=</span> <span class="st">"bottom"</span>)</pre></body></html></div>
 <p><img src="slide_files/figure-html/unnamed-chunk-9-1.png" width="864"></p>
-<p>Two points are worth making. First, the AR forecaster here is not very good. At various points in time, we can see that its forecasts are both pretty volatile (its point predictions are all over the place) and overconfident (its bands are too narrow). This is only meant as a simple demo and slightly more sophisticated AR models can go a long way. For example, the overconfidence in this example is due to the fact that the bands are based on quantiles of training residuals, and when the AR model fits well to the training set, these can clearly be too small.</p>
+<p>Two points are worth making. First, the AR model’s performance here is pretty mixed. At various points in time, we can see that its forecasts are volatile (its point predictions are all over the place), or overconfident (its bands are too narrow), or both at the same time. This is only meant as a simple demo and slightly more sophisticated AR models can go a long way. For example, the overconfidence in this example is due to the fact that the bands are based on quantiles of training residuals, and when the AR model fits well to the training set, these can clearly be too small in magnitude.</p>
 <p>Second, the AR forecaster here is using using finalized data, meaning, it uses the signal values (reported COVID-19 cases) corresponding to the latest issue dates available, for both training models and making predictions. However, this is not reflective of the provisional nature of the data that it must cope with in a true forecast task. Training and making predictions on finalized data can lead to an overly optimismic sense of accuracy; see, for example, <a href="https://www.medrxiv.org/content/10.1101/2021.06.22.21259346">McDonald et al. (2021)</a>, and references therein.</p>
-<p>Note that both of these issues (building more AR models, and properly handling provisional data in training models and making predictions) are addressed in the <a href="https://cmu-delphi.github.io/epipred/"><code>epipred</code></a> package.</p>
+<p>Note that both of these issues (building better AR models, and properly handling provisional data in training models and making predictions) are addressed in the <a href="https://cmu-delphi.github.io/epipred/"><code>epipred</code></a> package.</p>
 </div>
   </div>
 

diff --git a/docs/articles/epitools.html b/docs/articles/epitools.html
@@ -232,12 +232,12 @@
 <pre><code>## # A tibble: 6 × 4
 ##   value geo_value time_value issue     
 ##   &lt;int&gt; &lt;chr&gt;     &lt;date&gt;     &lt;date&gt;    
-## 1     1 ca        2003-02-23 2021-10-19
-## 2     0 ca        2003-02-24 2021-10-19
-## 3     0 ca        2003-02-25 2021-10-19
-## 4     1 ca        2003-02-26 2021-10-19
-## 5     0 ca        2003-02-27 2021-10-19
-## 6     1 ca        2003-02-28 2021-10-19</code></pre>
+## 1     1 ca        2003-02-23 2021-10-20
+## 2     0 ca        2003-02-24 2021-10-20
+## 3     0 ca        2003-02-25 2021-10-20
+## 4     1 ca        2003-02-26 2021-10-20
+## 5     0 ca        2003-02-27 2021-10-20
+## 6     1 ca        2003-02-28 2021-10-20</code></pre>
 <div class="sourceCode" id="cb22"><html><body><pre class="r"><span class="fu"><a href="https://ggplot2.tidyverse.org/reference/ggplot.html">ggplot</a></span>(<span class="no">x</span>, <span class="fu"><a href="https://ggplot2.tidyverse.org/reference/aes.html">aes</a></span>(<span class="kw">x</span> <span class="kw">=</span> <span class="no">time_value</span>, <span class="kw">y</span> <span class="kw">=</span> <span class="no">value</span>)) +
   <span class="fu"><a href="https://ggplot2.tidyverse.org/reference/geom_bar.html">geom_col</a></span>(<span class="fu"><a href="https://ggplot2.tidyverse.org/reference/aes.html">aes</a></span>(<span class="kw">y</span> <span class="kw">=</span> <span class="no">value</span>)) +
   <span class="fu"><a href="https://ggplot2.tidyverse.org/reference/scale_date.html">scale_x_date</a></span>(<span class="kw">minor_breaks</span> <span class="kw">=</span> <span class="st">"month"</span>, <span class="kw">date_labels</span> <span class="kw">=</span> <span class="st">"%b %y"</span>) +
@@ -245,9 +245,9 @@
   <span class="fu"><a href="https://ggplot2.tidyverse.org/reference/labs.html">labs</a></span>(<span class="kw">x</span> <span class="kw">=</span> <span class="st">"Date"</span>, <span class="kw">y</span> <span class="kw">=</span> <span class="st">"SARS cases in Canada"</span>)</pre></body></html></div>
 <p><img src="epitools_files/figure-html/unnamed-chunk-7-1.png" width="700"></p>
 </div>
-<div id="stacking-data-sets-into-epi_signal_long-format" class="section level2">
+<div id="stacking-data-sets-into-long-format" class="section level2">
 <h2 class="hasAnchor">
-<a href="#stacking-data-sets-into-epi_signal_long-format" class="anchor"></a>Stacking data sets into <code>epi_signal_long</code> format</h2>
+<a href="#stacking-data-sets-into-long-format" class="anchor"></a>Stacking data sets into “long” format</h2>
 <p>todo</p>
 </div>
   </div>

diff --git a/docs/articles/index.html b/docs/articles/index.html
@@ -142,7 +142,7 @@
         <dt><a href="epitools.html">Get started with `epitools`</a></dt>
         <dd><p>An introductory tutorial with examples.</p></dt>
         <dt><a href="slide.html">1. Slide a computation over signal values</a></dt>
-        <dd><p>Slide a computation signal values over time.</p></dt>
+        <dd><p>Slide a computation over signal values over time.</p></dt>
         <dt><a href="pct-change.html">2. Compute percentage change over time</a></dt>
         <dd><p>Compute percentage change of signal values over time.</p></dt>
         <dt><a href="derivatives.html">3. Estimate derivatives of signals</a></dt>
